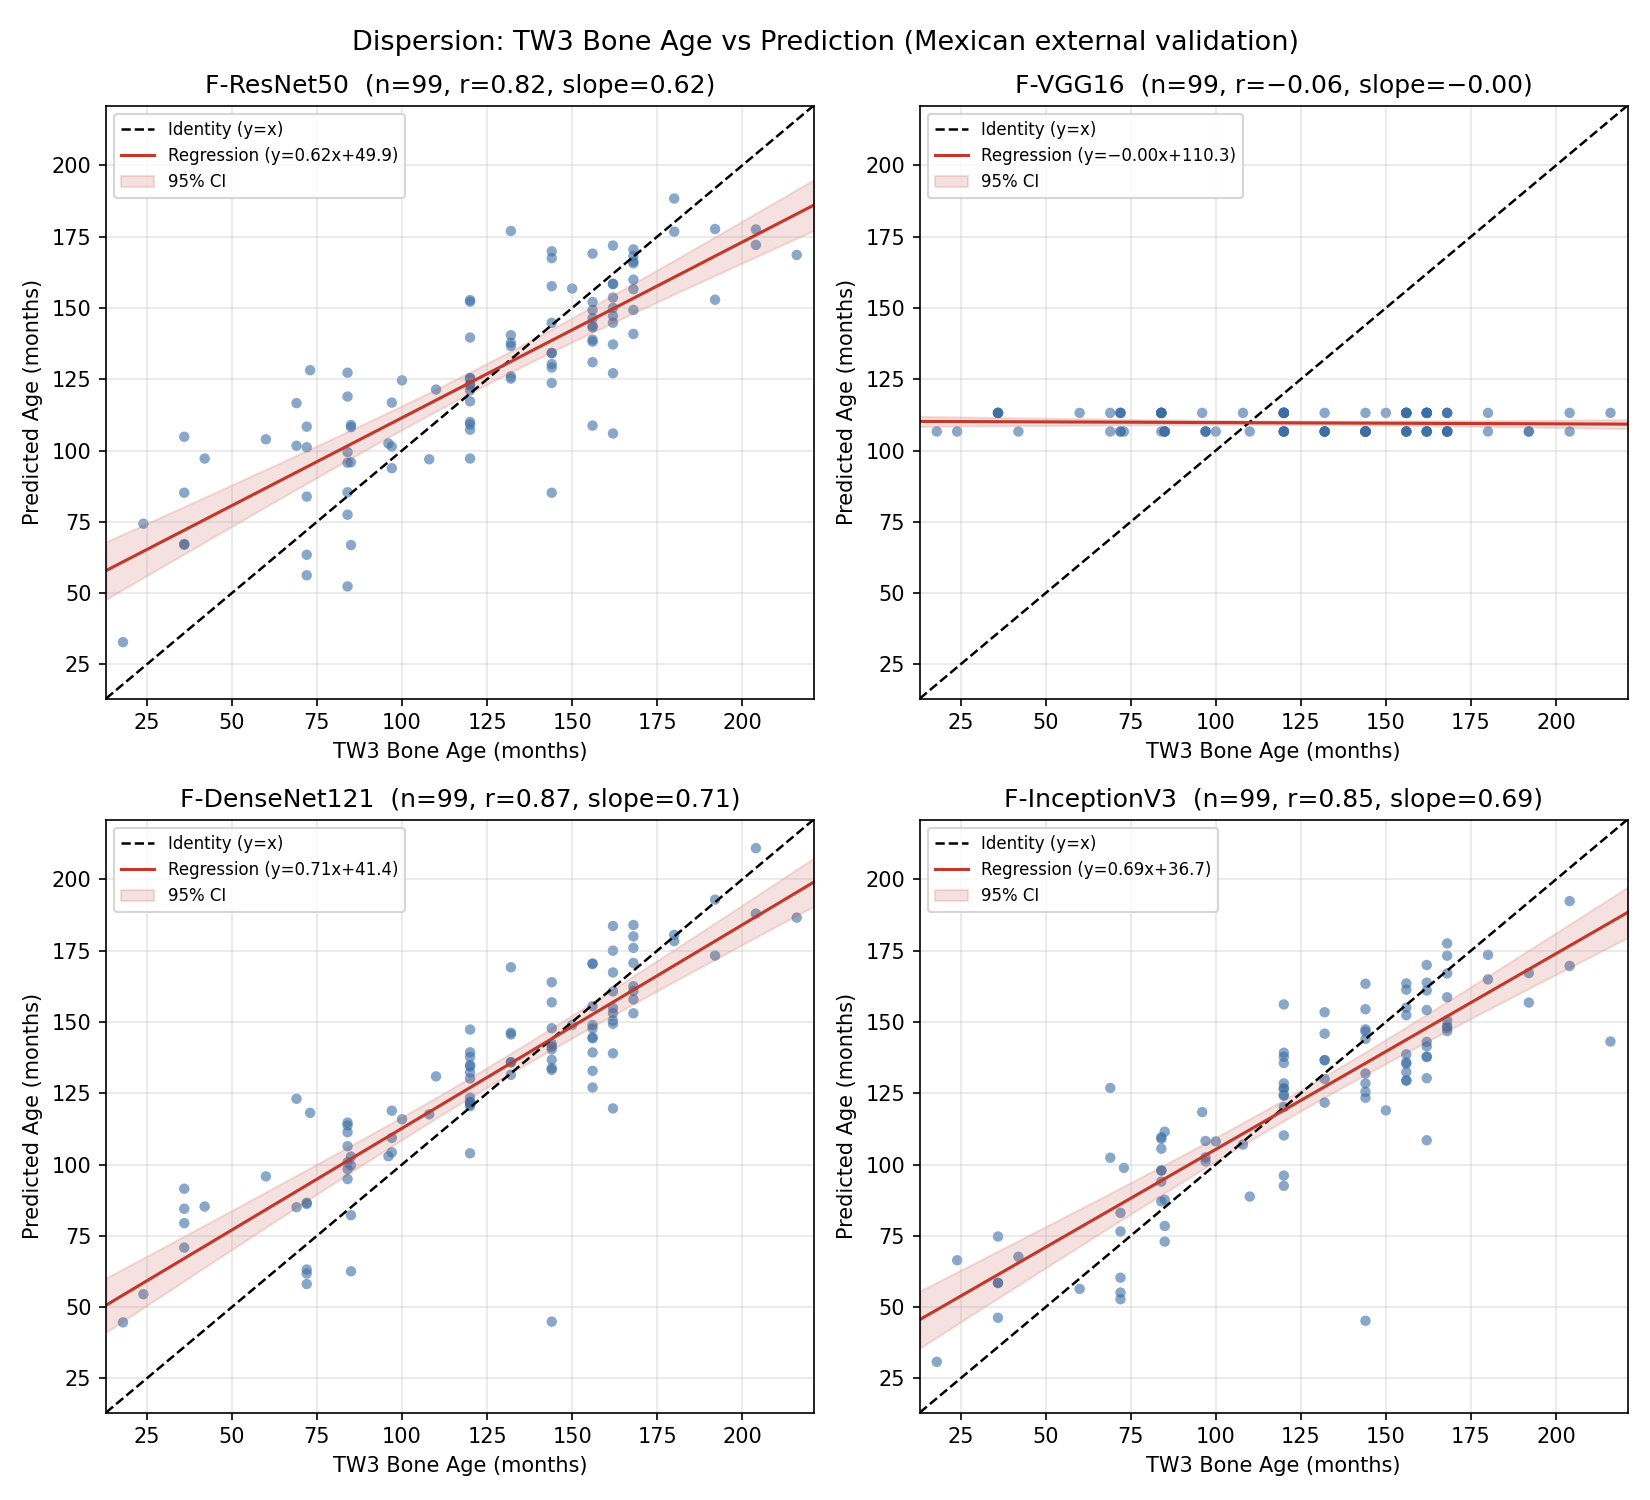
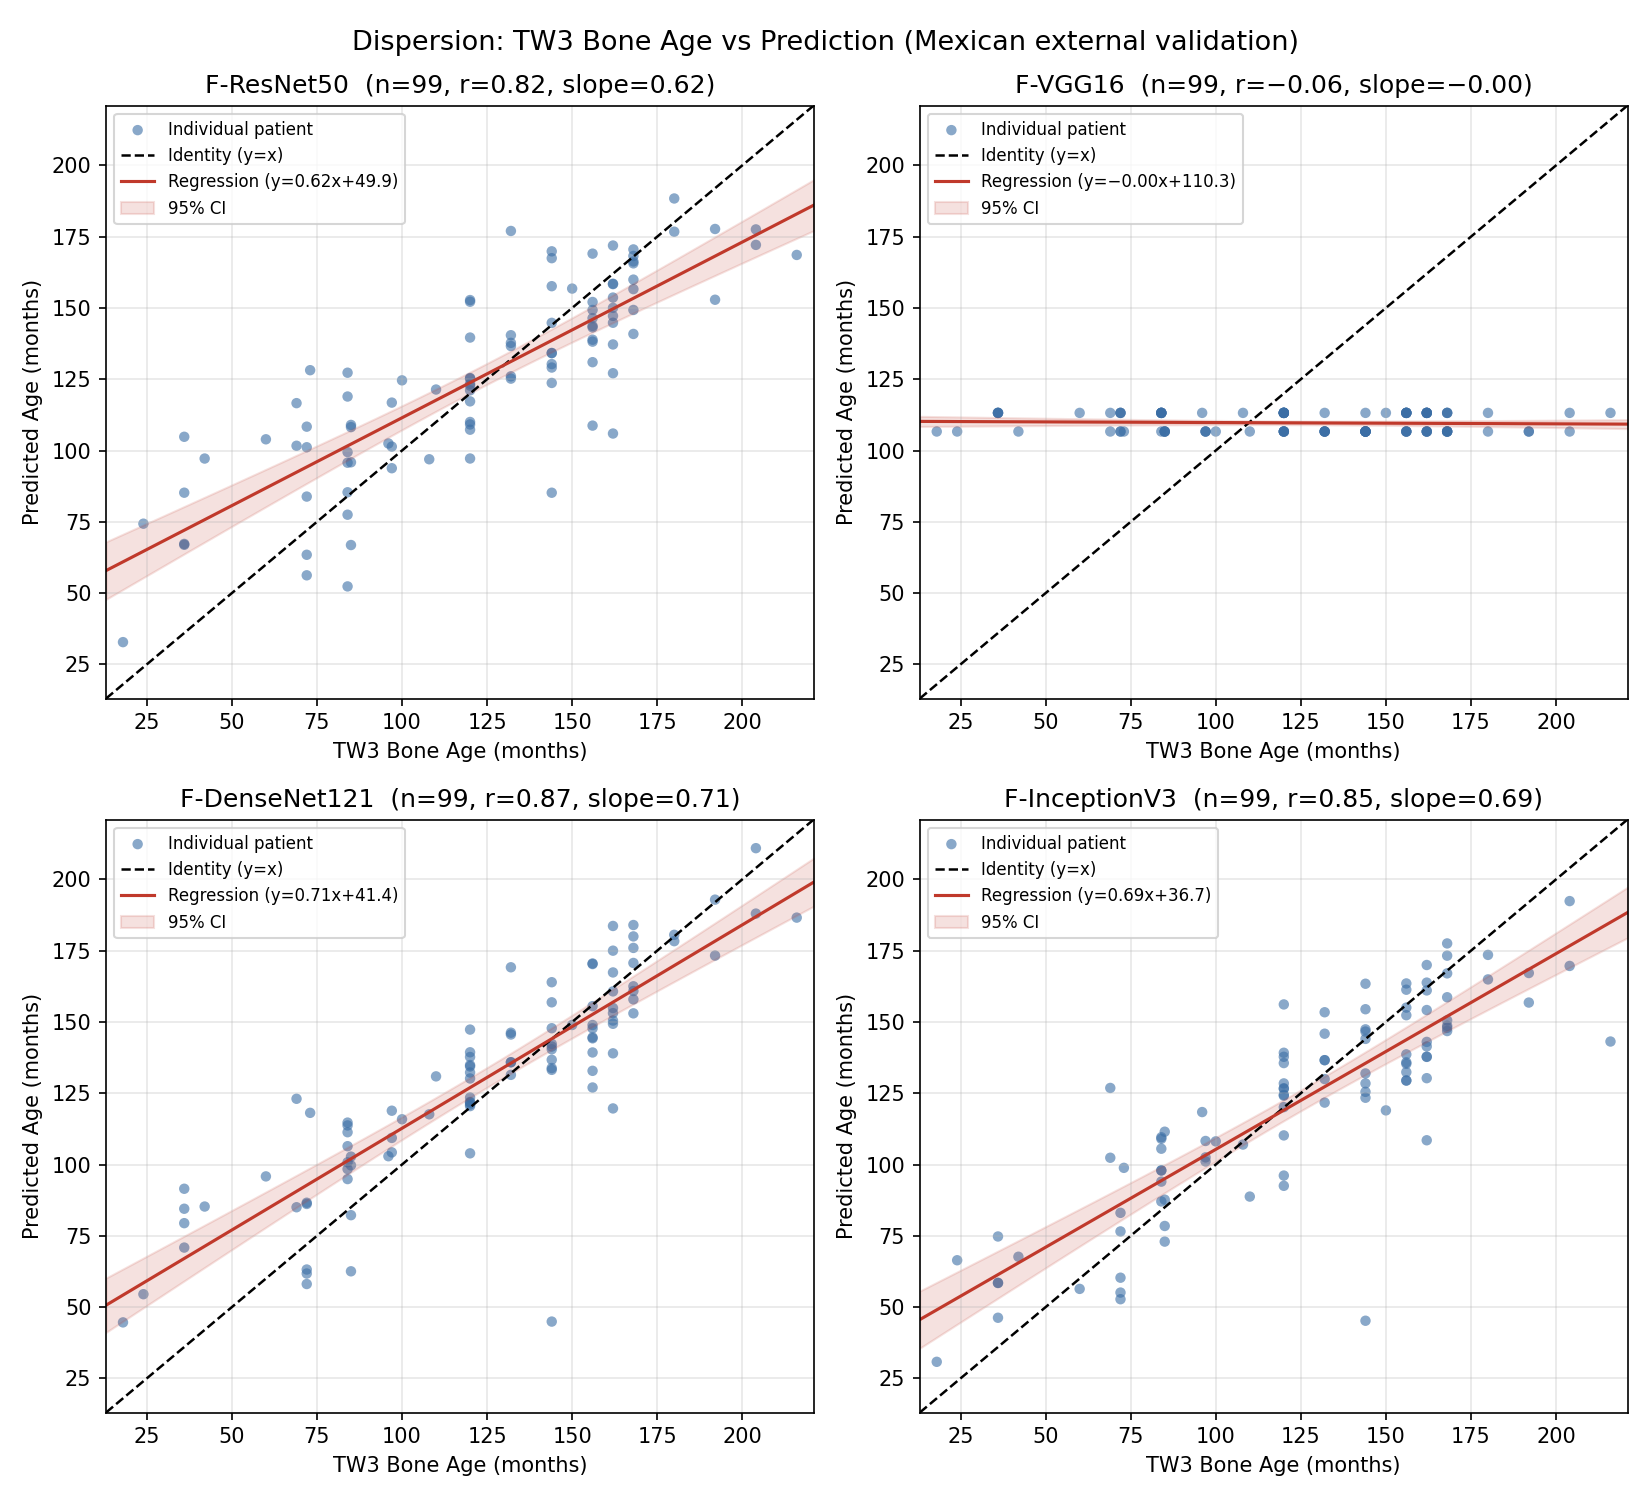
docs: pulir figura 8, corregir 4 puntos pendientes y cerrar documentación final
- Figura 8 (identidad+regresión) y Bland-Altman: signo menos Unicode (−) en vez
  de guion, leyenda explicando los puntos azules.
- Nuevos puntos 13-16 en RESULTADO_pendientes_corregido_pdf.md: pie de la
  Figura 8 de saliencia, párrafo redundante en 3.3 que citaba Table 14/15
  antes de Table 13, typo "reports additional reports additional", y
  leyenda de la columna Sig. en Tabla 15.
- RESUMEN_FINAL_COMENTARIOS_REVISOR.md: documento único que consolida el
  estado final de los 20 comentarios del Revisor 1.

diff --git a/review2/scripts/figure8_improved.py b/review2/scripts/figure8_improved.py
@@ -28,7 +28,8 @@ for ax, (name, exp) in zip(axes, EXPS.items()):
     trues = np.array(d["scatter"]["trues"])
     preds = np.array(d["scatter"]["preds"])
 
-    ax.scatter(trues, preds, alpha=0.6, s=25, color="#3b6ea5", edgecolor="none")
+    ax.scatter(trues, preds, alpha=0.6, s=25, color="#3b6ea5", edgecolor="none",
+               label="Individual patient")
     lims = [min(trues.min(), preds.min()) - 5, max(trues.max(), preds.max()) + 5]
     ax.plot(lims, lims, "k--", lw=1.2, label="Identity (y=x)")
 

diff --git a/review2/RESUMEN_FINAL_COMENTARIOS_REVISOR.md b/review2/RESUMEN_FINAL_COMENTARIOS_REVISOR.md
@@ -1,0 +1,200 @@
+# Segunda ronda de revisión: resumen final de los 20 comentarios del Revisor 1
+
+> Documentación de cierre. Consolida `ANALISIS_COMENTARIOS.md` y los 10 documentos
+> `RESULTADO_comentario*.md` producidos durante esta ronda en un solo archivo de referencia.
+> Manuscrito: *A Multi-Segment Fusion Architecture for Bone Age Estimation* (revista *Technologies*,
+> MDPI). Todos los números citados aquí están verificados contra el código y los datos del
+> proyecto: no hay cifras inventadas.
+
+## Estado por comentario
+
+| # | Tema | Estado |
+|---|---|---|
+| 1 | Limpieza general / versión sin tracked changes | 🔒 Bloqueado: requiere el `.docx` fuente |
+| 2 | Diagrama de flujo de participantes | ✅ Resuelto |
+| 3 | Distribución antes/después del balanceo + umbral de 50 | ✅ Resuelto |
+| 4 | Terminología TW3 vs. edad cronológica (Figura 8) | ✅ Resuelto |
+| 5 | Confiabilidad inter-observador (estándar mexicano) | ⏳ Requiere trabajo clínico real |
+| 6 | Representatividad de la cohorte mexicana | ✅ Resuelto |
+| 7 | Estadística externa incompleta (IC, RMSE, sesgo, estratificación) | ✅ Resuelto |
+| 8 | Gráficos de dispersión + colapso de F-VGG16 | ✅ Resuelto |
+| 9 | Validación de segmentación (split real + Dice/IoU por clase) | ✅ Resuelto (con limitación declarada) |
+| 10 | Segmentación no probada en imágenes mexicanas | ⏳ Requiere trabajo manual real |
+| 11 | Asociación TW3 exagerada | ✅ Ya resuelto en el manuscrito, solo faltaba la respuesta |
+| 12 | Fuga de datos en el entrenamiento de fusión | ✅ Resuelto (declaración de limitación, sin reentrenar) |
+| 13 | Función de pérdida sin definición matemática | ✅ Resuelto |
+| 14 | Comparación de arquitecturas no controlada | ✅ Resuelto |
+| 15 | Ablación insuficiente (falta baseline whole-hand) | ✅ Resuelto: experimento nuevo, datos reales |
+| 16 | Mapas de saliencia sin reproducibilidad | ✅ Resuelto (reencuadrado como ilustrativo) |
+| 17 | Tabla 10 no comparable con la literatura | ✅ Ya resuelto en el manuscrito, solo faltaba la respuesta |
+| 18 | Declaración de ética inaceptable | ✅ Resuelto |
+| 19 | Limpieza editorial completa | 🔒 Bloqueado: requiere el `.docx` fuente |
+| 20 | Decisión general | ⏳ Se redacta al cerrar 1, 5, 10, 19 |
+
+---
+
+## Hallazgos críticos encontrados durante la revisión
+
+**Hallazgo #1: Bug `real_age` vs. `bone_age`.** `src/08_mex_validation.py` comparaba las
+predicciones del modelo (que predice edad ósea TW3) contra `real_age` (edad cronológica) en vez
+de `bone_age` (edad ósea asignada por TW3), pese a usar `bone_age` correctamente en otras partes
+del mismo script. Corregido en código (commit `9ccd9a6`) y **todos** los números de validación
+mexicana citados en este documento ya están recalculados con la corrección. Efecto principal:
+**F-DenseNet121 pasa a ser el backbone con el MAE numéricamente más bajo en MEX** (16.38 vs. el
+17.28 de F-InceptionV3, que antes figuraba como mejor): aunque la diferencia entre ambos sigue
+sin ser estadísticamente significativa.
+
+**Hallazgo #2: Respuestas 13/14 cruzadas** en el borrador de respuestas al revisor (la
+Respuesta 14 contestaba al Comentario 13 por error, dejando el 14 efectivamente sin responder).
+Corregido al redactar las respuestas de este documento.
+
+**Hallazgo #3: Artefacto de fusión de texto**: *"inspired based by theon the Tanner–Whitehouse 3
+(TW3) technique"* (pág. 3): evidencia en vivo de que la limpieza editorial del Comentario 19
+sigue pendiente. Bloqueado junto con #1 y #19 por falta del `.docx` fuente.
+
+---
+
+## Comentarios resueltos: detalle
+
+### #2: Diagrama de flujo de participantes
+Se construyó un diagrama de flujo (`figures/participant_flow_diagram.png`) que seguía iterando
+hasta usar exactamente la terminología del manuscrito ("official training/validation/test set",
+"balanced subset", "internal training/validation subset", "Mexican clinical dataset"), sin
+conectar visualmente conceptos no relacionados (se corrigió una flecha que implicaba una relación
+falsa entre el test set oficial de RSNA, no usado, y el cohorte mexicano).
+
+### #3: Distribución antes/después del balanceo
+Verificado contra los CSV reales: raw = 12,611 imágenes (160 edades, 1–228 meses, 54.2%♂/45.8%♀)
+→ balanceado = 11,783 imágenes (36 edades, 24–216 meses, 53.6%♂/46.4%♀). El filtro excluye 124 de
+160 edades (−828 imágenes, 6.6%), mayormente valores aislados con <10 muestras. Umbral de 50
+imágenes/mes justificado como mínimo para un batch completo (`BATCH_SIZE=32`). La Figura 2 del
+manuscrito se extendió de 4 a 6 paneles (RSNA raw, México, RSNA balanceado) en vez de crear una
+figura nueva separada. Sobre el pedido de "demostrar que el balanceo mejora el desempeño en un
+dataset independiente": con los datos de MEX ya corregidos (Hallazgo #1), el dataset balanceado
+sigue siendo el mejor de las tres variantes (trimmed/balanced/full) pero por un margen modesto
+(16.42 vs. 16.82/18.37 meses, no los ~3-4 meses que sugerían los números con el bug).
+
+### #4, #7, #8: Terminología TW3, estadística externa, dispersión y colapso de VGG16
+Con los datos de MEX corregidos: tabla completa de MAE/RMSE/mediana AE/sesgo/DE/±6m/±12m para
+los 4 backbones en RSNA (n=1,393) y MEX (n=99); pruebas pareadas (Wilcoxon + bootstrap 10,000
+remuestreos, corrección de Holm) confirman que **F-DenseNet121 y F-InceptionV3 siguen siendo
+estadísticamente indistinguibles** en ambos datasets (MEX: ΔMAE=−0.90, p=0.70/0.50). Hallazgo
+clínico adicional: pese al MAE similar, DenseNet121 sobreestima sistemáticamente (sesgo +5.68m)
+mientras InceptionV3 subestima levemente (−2.37m): invisible en el MAE agregado. Nueva Figura 8
+(identidad + regresión + IC 95%) y figura Bland-Altman generadas con terminología TW3 corregida.
+Diagnóstico del colapso de F-VGG16 con evidencia real de `training_history`: no es falta de
+entrenamiento (estancado desde la época 1) ni fuga de datos (produciría desempeño artificialmente
+bueno, no un colapso), sino falla de optimización específica de la arquitectura: VGG16 es la
+única de las 4 sin BatchNorm ni conexiones residuales/densas al entrenar desde cero.
+
+### #6, #18: Representatividad mexicana y declaración de ética
+Terminología "single-center Mexican clinical cohort" ya adoptada en el manuscrito. Limitación de
+datos clínicos (solo edad/sexo disponibles) declarada explícitamente. La sección formal
+"Institutional Review Board Statement" se sincronizó con el detalle que ya existía en la Sección
+2.1 (comité UDG, expediente 26-110, acuerdo RG/ACC/75/2019).
+
+### #9: Validación de segmentación
+El manuscrito decía "200 radiografías anotadas"; el dataset real tiene **379** (303 train / 76
+val, split reproducible `random_state=42`), confirmado contra el log de entrenamiento del modelo
+activo (`hand-detector_00`). Dice/IoU por clase calculado sobre el split real: meñique 0.78,
+medio 0.89, pulgar 0.86, muñeca 0.77 (macro 0.83): notablemente más bajo y heterogéneo que el
+0.9168 agregado que reporta el manuscrito (calculado en modo "soft"/probabilístico, no por clase).
+**Limitación honesta declarada**: las 76 imágenes de "validación" no son un test ciego: son el
+mismo conjunto que `EarlyStopping`/`ReduceLROnPlateau` usó para seleccionar el checkpoint del
+segmentador. No se entrenó un segmentador nuevo con split de 3 vías porque `hand-detector_00` es
+el modelo que generó las máscaras de **todos** los experimentos del estudio; evaluar un modelo
+distinto describiría un segmentador que nunca se usó realmente.
+
+### #11, #17: Ya resueltos en el manuscrito
+Ambos solo requerían confirmar en la respuesta al revisor que el cambio ya estaba hecho en el
+texto (terminología "inspired by" en vez de "implements" para #11; reencuadre de la Tabla 10 como
+contexto no competitivo para #17). Sin cambios de contenido.
+
+### #12: Fuga de datos en el entrenamiento de fusión (stacked-model leakage)
+**Confirmado real**: `src/06_training.py` entrena el modelo de fusión sobre el mismo split
+(`random_state=42`) que los modelos de segmento, así que durante la fase congelada de fusión, la
+cabeza de fusión ve salidas de los modelos de segmento calculadas sobre casos en los que esos
+modelos fueron ajustados. **Decisión explícita del autor: no reentrenar** (ya se había
+implementado y revertido una corrección completa: split de 3 vías: en una sesión anterior).
+Se optó por declarar la limitación honestamente en vez de rehacer el pipeline. Hallazgo adicional
+encontrado en el camino: el checkpoint guardado en disco es el de la última época, no
+necesariamente el de mejor `val_loss`, pese a `restore_best_weights=True`: aplica a todos los
+modelos del pipeline, no solo a la fusión.
+
+### #13: Función de pérdida sin definición matemática
+Ecuación formal extraída de `src/utils/losses.py`: $\mathcal{L}_{attention} = \frac{1}{N}\sum |\hat{y}_i-y_i|\cdot|\hat{y}_i/y_i - 1|$,
+que se simplifica algebraicamente a un MSE ponderado por el inverso de la edad real (penaliza
+~9× más fuerte los errores en pacientes jóvenes que en mayores). MAE train > MAE val explicado por
+dos causas verificables en el código: dropout activo durante el cómputo de la métrica de
+entrenamiento, y augmentación de datos solo en entrenamiento.
+
+### #14: Comparación de arquitecturas no controlada
+Hiperparámetros confirmados idénticos entre los 4 backbones (tabla completa: optimizador, LR,
+early stopping, pesos iniciales, etc.). Tiempos de entrenamiento reales por backbone
+(ResNet50~12h, VGG16~7h, DenseNet121~10h, InceptionV3~14h) y benchmark de latencia/memoria medido
+en nodo GPU dedicado: DenseNet121 tiene los menos parámetros y la menor memoria, pero
+paradójicamente la **mayor** latencia de inferencia (526.7ms, más lento que ResNet50 pese a tener
+3.3× menos parámetros): hallazgo reportado tal cual, sin ocultar que el conteo de parámetros no
+predice bien la latencia real.
+
+### #15: Ablación insuficiente (falta baseline whole-hand)
+Experimento nuevo (exp. 60, `MODEL_TYPE=whole_hand`): una sola rama DenseNet121 sobre la mano
+completa sin segmentar, mismo split/protocolo/hiperparámetros que la fusión de referencia.
+Resultado con significancia estadística pareada en las tres condiciones de evaluación:
+
+| Evaluación | ΔMAE (whole-hand − fusión) | Significativo |
+|---|---:|:---:|
+| Interna (n=2,357) | +0.39m | No (p=0.11) |
+| RSNA externa (n=1,393) | +0.86m | Sí (p=0.016) |
+| MEX externa (n=99) | +7.67m | Sí, fuerte (p<0.0001) |
+
+La segmentación anatómica aporta poco en validación interna pero se vuelve significativa y
+sustancial bajo distribution shift: refuerza la tesis central del artículo sobre la brecha
+interna/externa. Nota secundaria: el modelo whole-hand, sin depender de segmentación, procesó el
+100% de ambos conjuntos externos, mientras la fusión pierde 32/1,425 (RSNA) y 1/100 (MEX) casos
+por fallos de segmentación.
+
+### #16: Mapas de saliencia sin reproducibilidad
+Decisión explícita del autor: **no generar ejemplos nuevos**: la saliencia es puramente
+ilustrativa. Metodología documentada con precisión (gradiente vainilla vía `tf.GradientTape`, sin
+capa objetivo específica, normalización [0,1], umbral percentil 97, determinístico). Texto de
+reemplazo refuerza explícitamente que no se afirma interpretabilidad clínica ni anatómica más
+allá de que la atención del gradiente cae dentro de las regiones segmentadas: invocando
+directamente la alternativa que el propio revisor ofrece ("...or withdraw interpretability
+claims").
+
+---
+
+## Comentarios bloqueados o diferidos
+
+- **#1 y #19** (limpieza general/editorial): bloqueados porque solo se dispuso del PDF exportado
+  del manuscrito, nunca del `.docx` fuente: no es posible aceptar cambios de Word ni hacer
+  búsqueda de texto completo de forma confiable sobre un PDF.
+- **#5** (confiabilidad inter-observador): requiere que los dos lectores clínicos existentes
+  (radiólogo y médico) califiquen independientemente un subconjunto y se calcule kappa/ICC:
+  trabajo clínico real, no analítico.
+- **#10** (segmentación en imágenes mexicanas): requiere anotación manual de ~20–30 imágenes
+  mexicanas en LabelMe por una persona: el ítem más costoso en tiempo de todo el documento.
+- **#20** (decisión general): es la síntesis de cierre, se redacta una vez resueltos o declarados
+  como diferidos los puntos 1, 5, 10 y 19.
+
+---
+
+## Más allá de los 20 comentarios numerados
+
+Durante la revisión del manuscrito ya editado (`corregido2.pdf`) se encontraron además ~16
+correcciones puntuales (números con el bug viejo aún citados en Abstract/Conclusiones,
+referencias cruzadas rotas tras la reestructuración, tablas/figuras con numeración sin resolver,
+abreviaciones faltantes, un párrafo redundante, etc.): documentadas por separado, con ubicación
+exacta y texto listo para pegar, en
+[`RESULTADO_pendientes_corregido_pdf.md`](RESULTADO_pendientes_corregido_pdf.md).
+
+## Inventario de archivos de este análisis
+
+- `ANALISIS_COMENTARIOS.md`: mapeo inicial de los 20 comentarios (qué pide / qué tenemos / qué falta).
+- `RESULTADO_comentario_{3,9,12,13,14,15,16}.md`, `RESULTADO_comentarios_{2_6_18,4_7_8,11_17}.md`: detalle completo por comentario, con texto de reemplazo listo para el manuscrito.
+- `RESULTADO_texto_backbone_vs_simplecnn.md`: corrección de un párrafo específico señalado por el usuario (comparación backbone-vs-simple_cnn mal etiquetada como "fusion vs. baseline").
+- `RESULTADO_pendientes_corregido_pdf.md`: checklist mecánico de 16 puntos sobre el manuscrito ya editado.
+- `figures/`: diagrama de flujo, Figura 2 extendida (6 paneles), Figura 8 (identidad+regresión), Bland-Altman.
+- `scripts/`: todo el código usado para generar los números y figuras de este análisis, reproducible desde los datos del proyecto.
+- `results_json/`: resultados numéricos crudos (Dice/IoU, estadísticas extendidas, latencia, significancia whole-hand, etc.).

diff --git a/review2/RESULTADO_pendientes_corregido_pdf.md b/review2/RESULTADO_pendientes_corregido_pdf.md
@@ -175,3 +175,37 @@ orden, para no pisar números ya usados a medio camino (igual que con las tablas
 *(Nota: "HGR" (Hospital General Regional, "HGR 46") también aparece sin expandir, pero es parte
 de un nombre propio de institución, similar a "RSNA" mismo; se deja fuera de la lista principal
 por ser de menor prioridad.)*
+
+---
+
+### 13. Pie de Figura 8 (mapas de saliencia): genérico, no describe lo que muestra (Comentario 16)
+
+**Cambia esto:**
+> "Figure 8. Examples of bone age prediction using F-DenseNet121."
+
+**Por esto:**
+> "Figure 8. Illustrative vanilla-gradient saliency maps for three example patients (F-DenseNet121), showing gradient attention concentrated within the segmented anatomical regions."
+
+---
+
+### 14. Sección 3.3: párrafo redundante que menciona Table 14/15 antes de que aparezca Table 13
+
+**Elimina este párrafo completo** de la Sección 3.3 (va justo después del primer párrafo, antes de "The effectiveness of the fusion-based formulation was evaluated..."):
+> "To quantify statistical uncertainty, paired bootstrap resampling (10,000 iterations) was used to estimate 95% confidence intervals for the MAE differences between models. Additionally, pairwise comparisons were performed using a Wilcoxon signed-rank test with Holm correction for multiple testing. These results are reported in full in Table 14 and Table 15 (Section 3.5), including RMSE, median absolute error, bias, and stratification by sex and age group. These results confirm that, while small differences in MAE are observed, they are not statistically distinguishable given the available sample sizes, particularly for the external dataset."
+
+Todo su contenido está duplicado, con más precisión, en el párrafo de la Sección 3.5 que introduce las Tablas 14/15 (misma metodología, mismas columnas, misma conclusión con números exactos). Eliminarlo no rompe la transición entre párrafos ni pierde información.
+
+### 15. Sección 3.5: typo "reports additional reports additional"
+
+**Cambia esto:**
+> "Table 14 and Table 15 reports additional reports additional error statistics"
+
+**Por esto:**
+> "Table 14 and Table 15 report additional error statistics"
+
+### 16. Tabla 15: falta explicar qué significan ✅/❌ en la columna "Sig."
+
+**Decisión:** se conservan los emojis, se agrega la explicación en el pie de tabla.
+
+**Cambia el título de la Tabla 15 por esto** (agrega la explicación al final):
+> "Table 15. Pairwise statistical comparisons of backbone architectures using Wilcoxon signed-rank and bootstrap tests, with Holm correction. Sig. indicates whether the difference is statistically significant (✅) or not (❌) under both tests."
